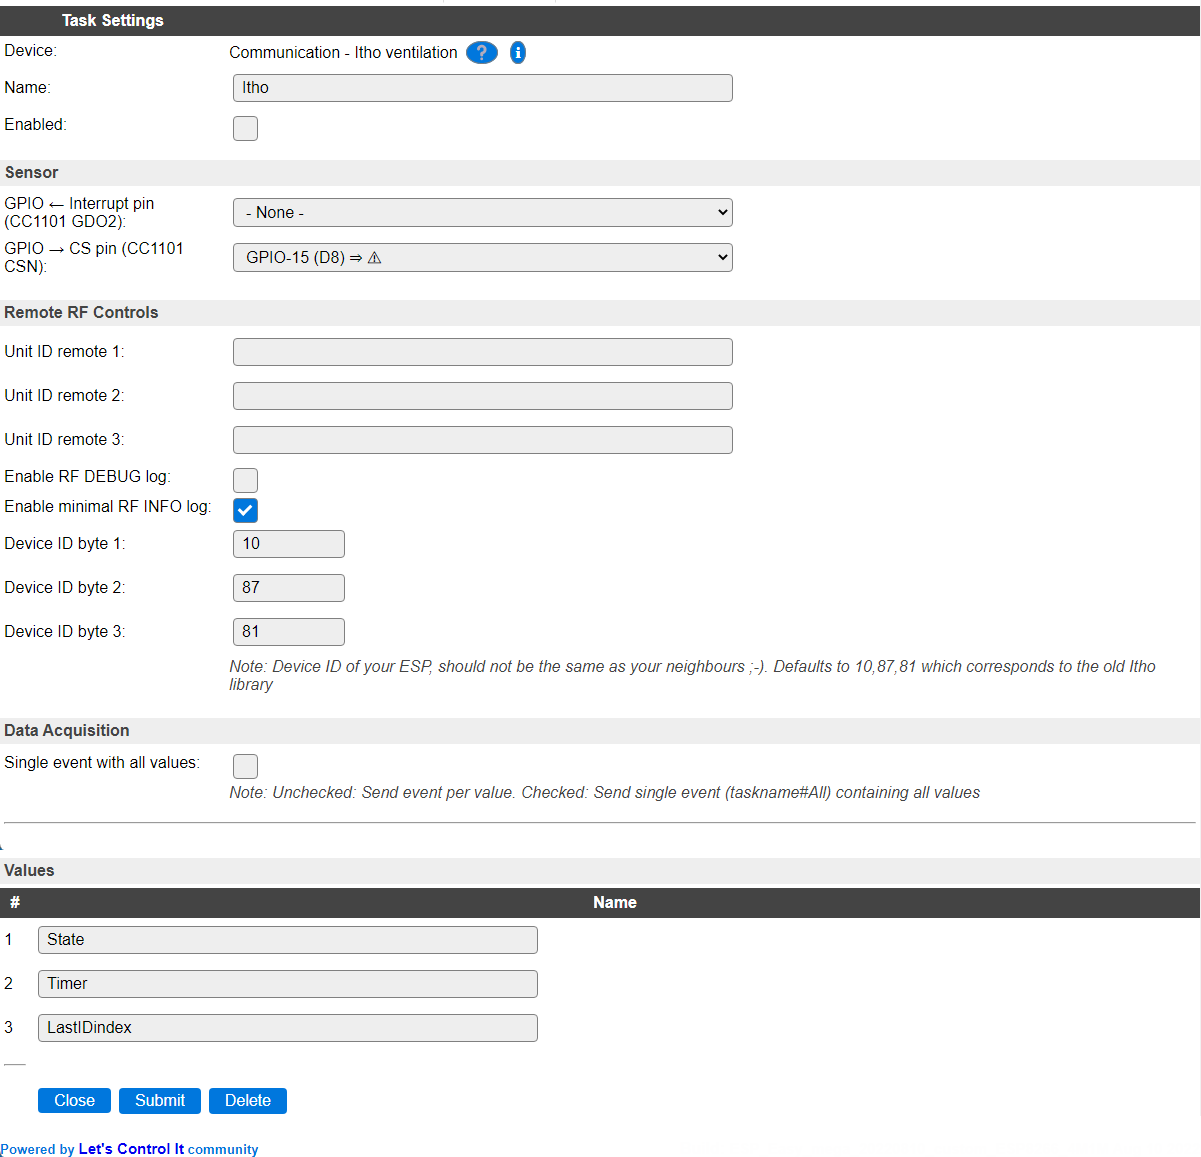
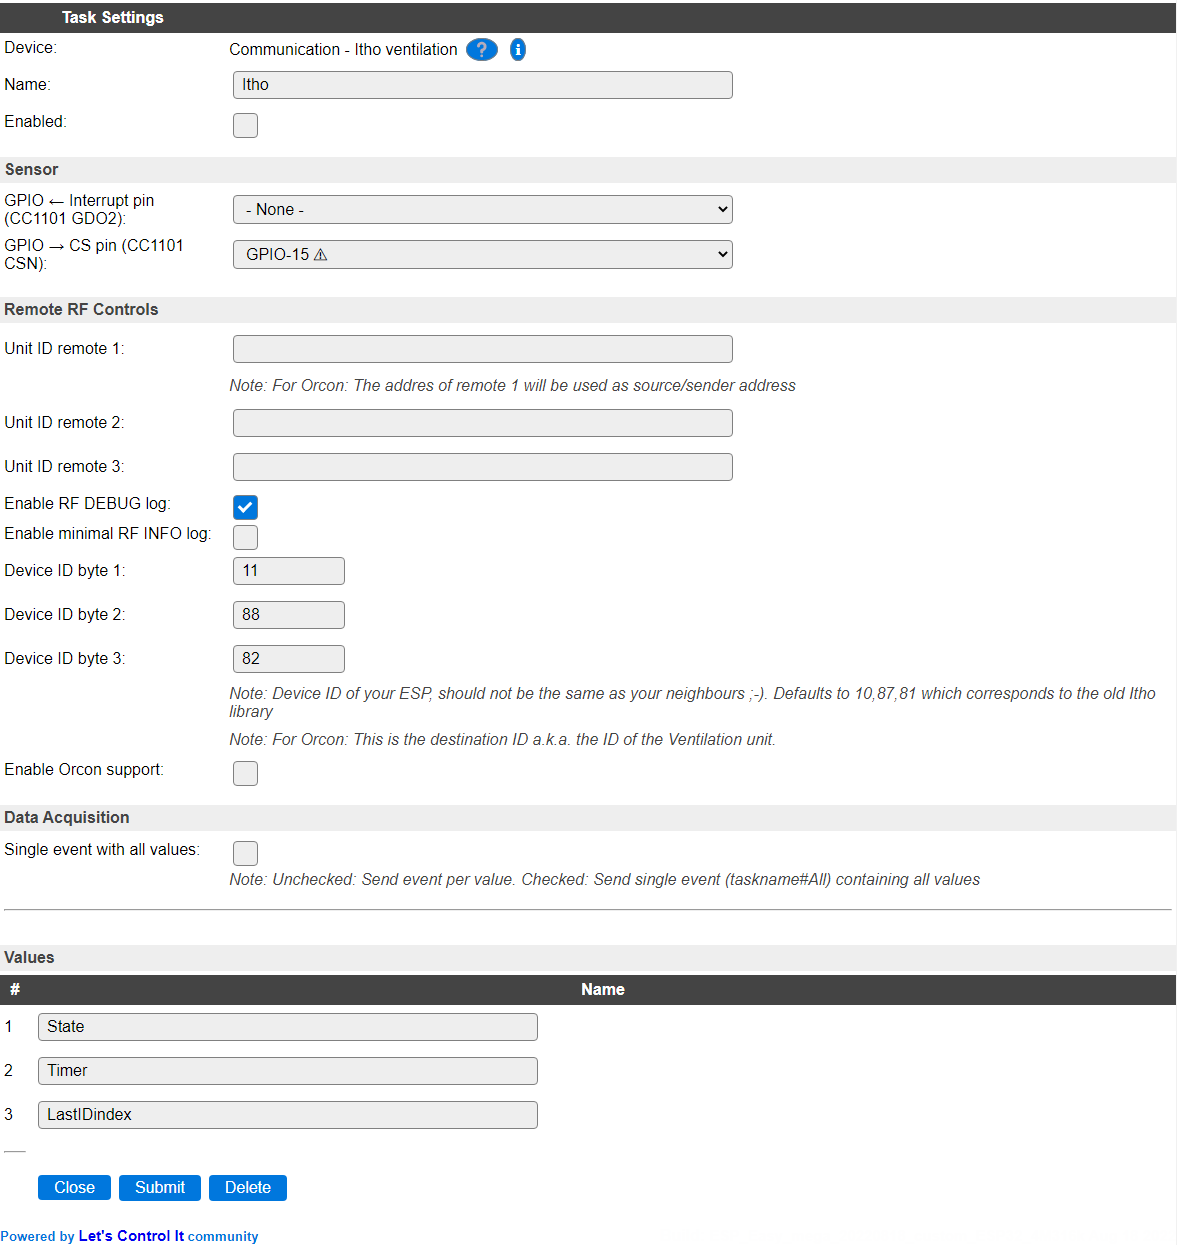
[P118] Update documentation with Orcon commands

diff --git a/docs/source/Plugin/P118.rst b/docs/source/Plugin/P118.rst
@@ -78,6 +78,7 @@ Remote RF Controls
 
 * **Device ID byte 1..3**: Device ID of the ESPEasy plugin, defaults to 10,87,81. The plugin acts as a remote and can have a unique ID. Can be changed from default if you have interference with neighbours. After a change you should again join the ESP with the fan.
 
+* **Enable Orcon support**: Enables the extra protocol for the Orcon brand of ventilation units, that use the same protocol, but with a different command set. To avoid possible interference, it is disabled by default.
 
 Data Acquisition
 ^^^^^^^^^^^^^^^^
@@ -141,6 +142,9 @@ Change log
 
 .. versionchanged:: 2.0
 	.
+
+  |added|
+	2022-08-18: Add support for Orcon devices.
 
   |added|
 	2022-08-10: Made multi-instance compatible, CS pin configurable and interrupt pin usage optional.
